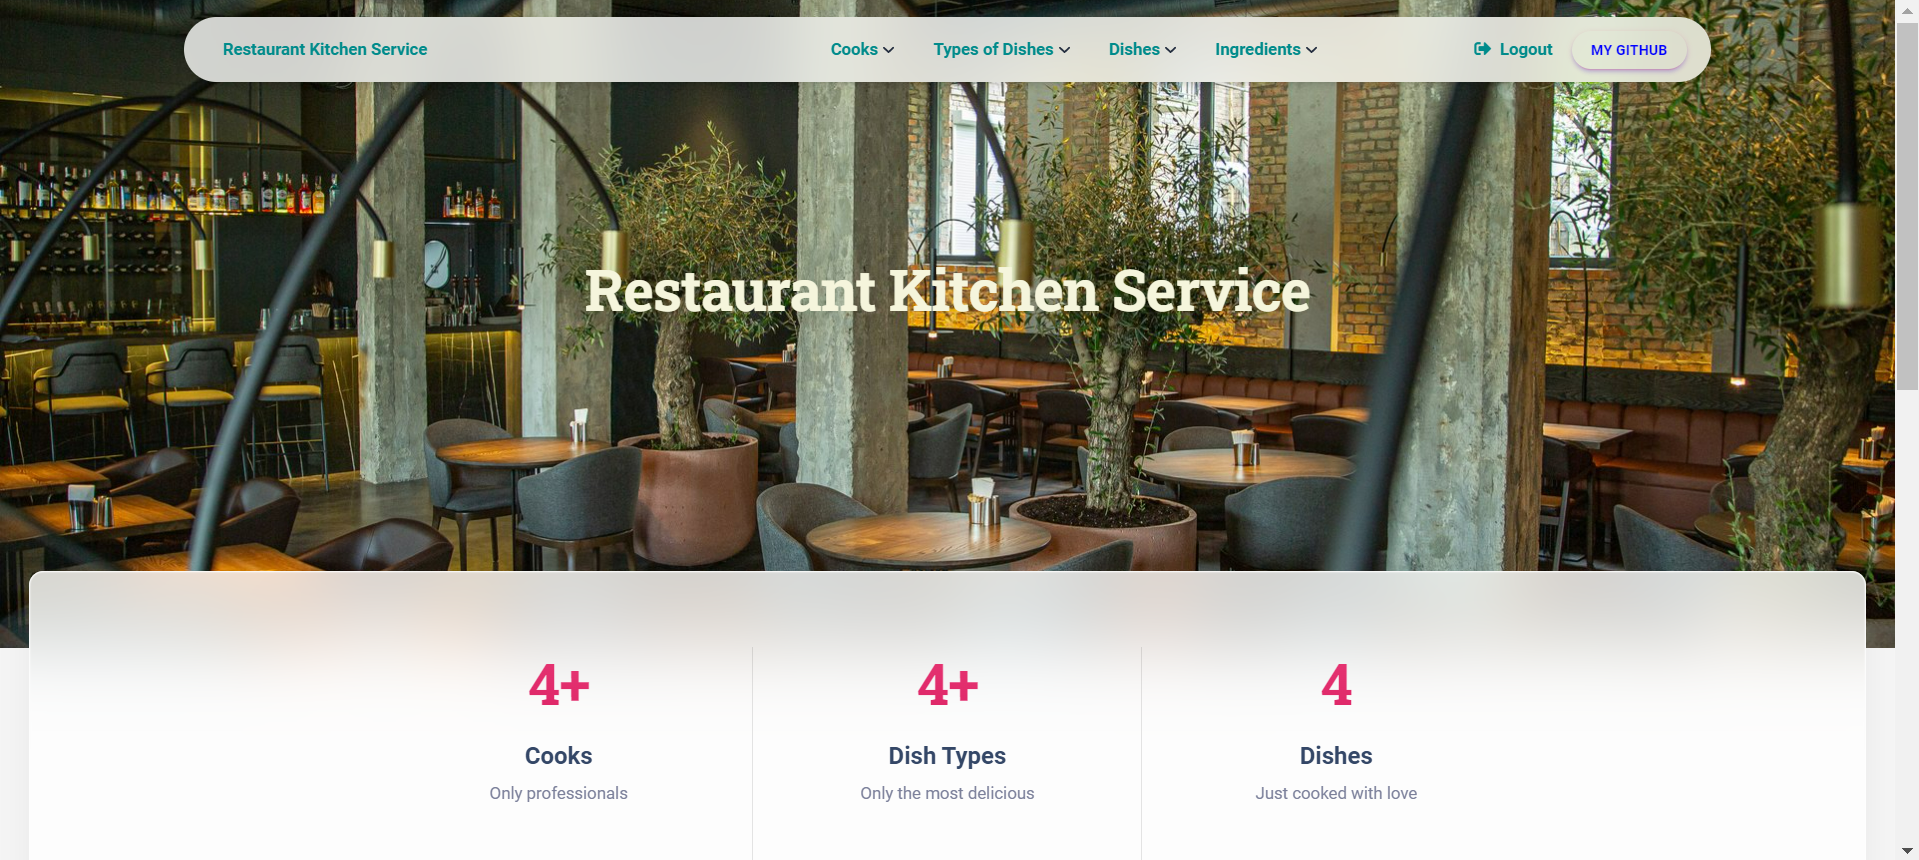
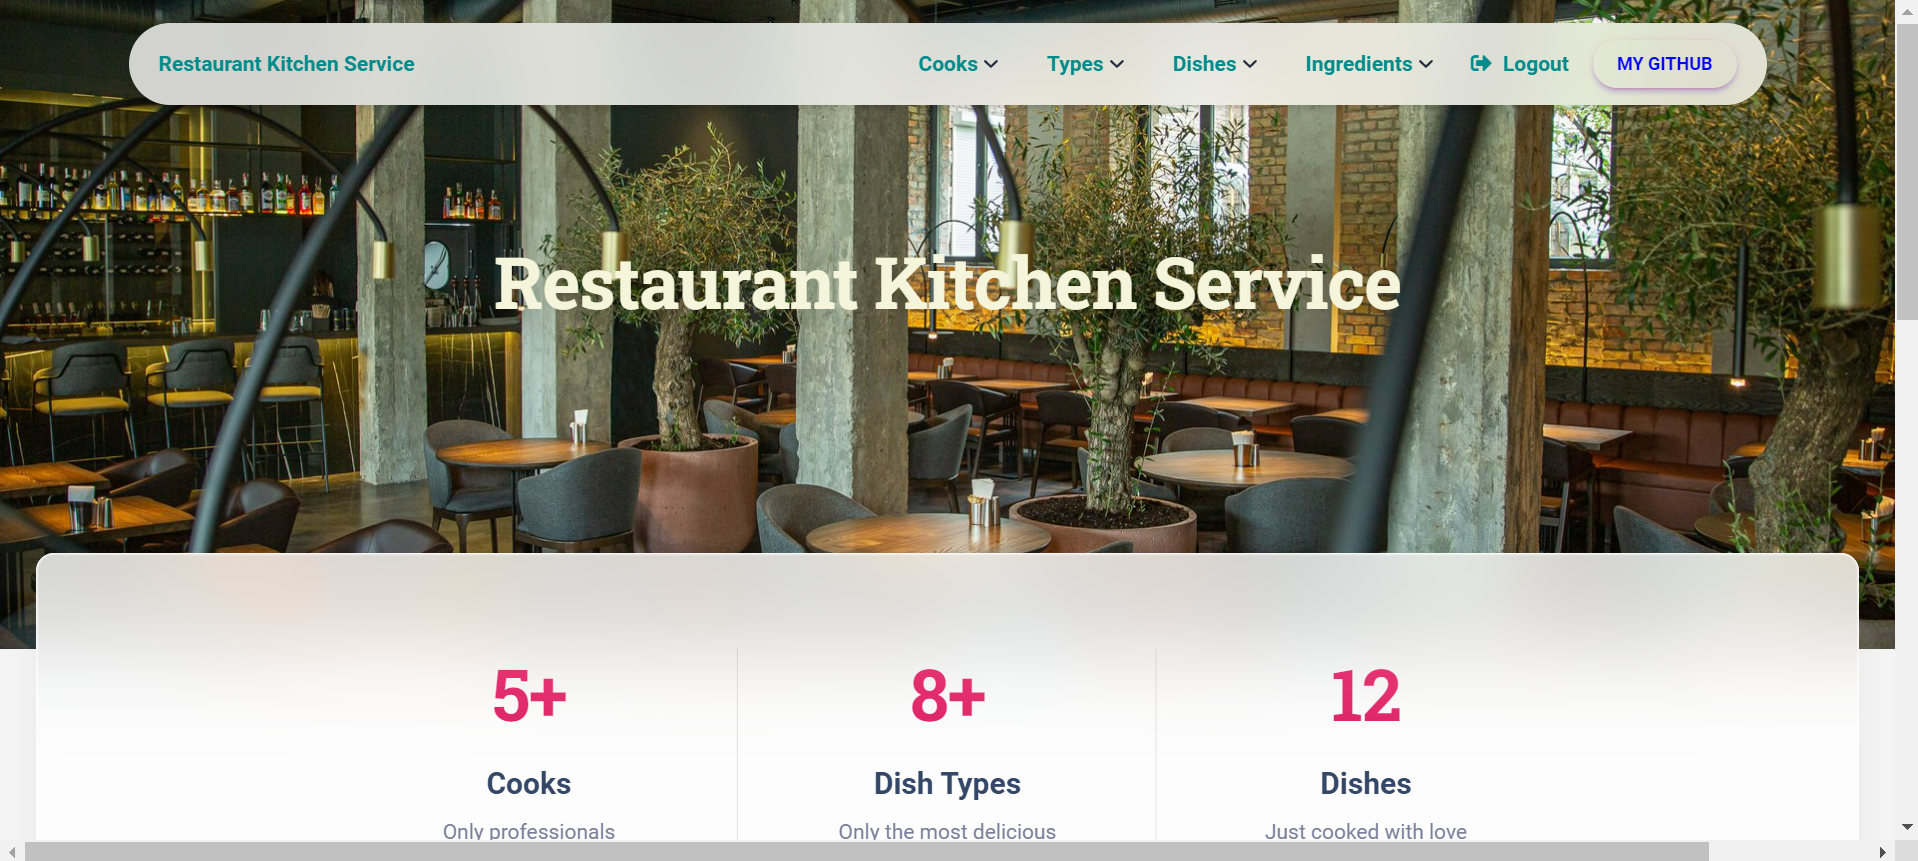
The information in the Readme has been updated and screenshots and a test account have been added

diff --git a/README.md b/README.md
@@ -1,9 +1,12 @@
 # Restaurant Kitchen Service Project
+# Account for using the application:
+*  login: example
+* password: First1996
 
 Restaurant Kitchen Service is a web application that enables restaurant managers to manage chef profiles,
 food types, dishes, and ingredients for dishes. Chefs can choose the dishes they want to prepare, or the manager can 
 assign them to specific dishes.
-Restaurant Kitchen Service Project deployed to [render](render.com)
+[Restaurant Kitchen Service Project deployed to render](https://restaurant-service-mate.onrender.com/)
 
 ## Installing / Getting started:
 ```shell
@@ -26,3 +29,8 @@ python manage.py runserver
 
 ## Demo
 ![demo.png](demo.png)
+![main2.png](main2.png)
+![new_cook.png](new_cook.png)
+![list_types.png](list_types.png)
+![admin.png](admin.png)
+
